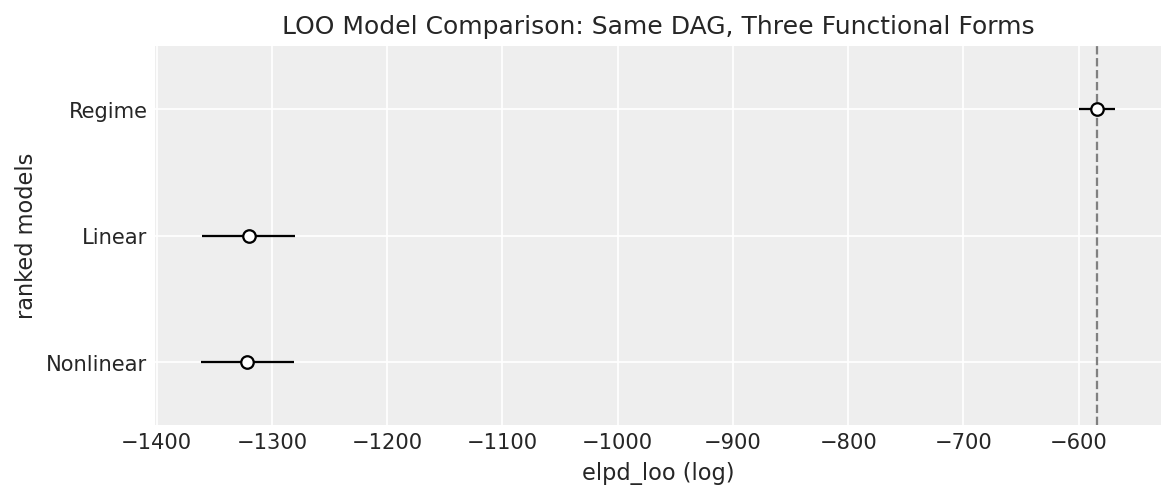
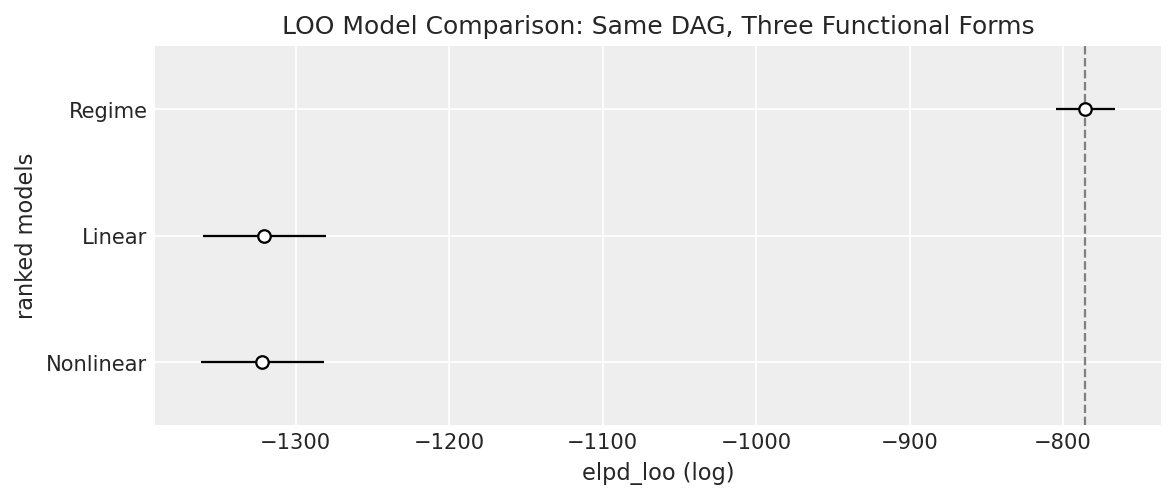
use latent variable

diff --git a/run_demo_dag1.py b/run_demo_dag1.py
@@ -8,6 +8,7 @@ warnings.filterwarnings("ignore", category=RuntimeWarning)
 import numpy as np
 import pandas as pd
 import pymc as pm
+import pytensor.tensor as pt
 import arviz as az
 import matplotlib
 matplotlib.use("Agg")
@@ -86,7 +87,6 @@ def main():
     ecf_vals = df["ECF"].values
     req_vals = df["R_eq"].values
     tight = (mp_vals > 0).astype(float)
-    stress = df["stress"].values
     tightening_bool = mp_vals > 0
 
     # ── 2. Figure 1: Exploratory scatter plots ────────────────────────────
@@ -147,10 +147,19 @@ def main():
         c1 = pm.Normal("c1", mu=0, sigma=2)
         c2 = pm.Normal("c2", mu=0, sigma=2)
         c3 = pm.Normal("c3", mu=0, sigma=2)
-        c_stress = pm.Normal("c_stress", mu=0, sigma=2)
+        c_stress = pm.Normal("c_stress", mu=0, sigma=5)
+        p_stress = pm.Beta("p_stress", alpha=2, beta=10)
         sigma_req = pm.HalfNormal("sigma_req", sigma=2)
-        req_mu = c1 * dr_vals + c2 * ecf_vals + c3 * rs_vals + c_stress * stress * np.abs(mp_vals)
-        pm.Normal("R_eq", mu=req_mu, sigma=sigma_req, observed=req_vals)
+        base_mu = c1 * dr_vals + c2 * ecf_vals + c3 * rs_vals
+        pm.Mixture(
+            "R_eq",
+            w=pt.stack([1 - p_stress, p_stress]),
+            comp_dists=[
+                pm.Normal.dist(mu=base_mu, sigma=sigma_req),
+                pm.Normal.dist(mu=base_mu + c_stress * np.abs(mp_vals), sigma=sigma_req),
+            ],
+            observed=req_vals,
+        )
 
     # Model C: Nonlinear
     with pm.Model() as model_nonlinear:
@@ -285,12 +294,15 @@ def main():
         "a1_tight": 1.8, "a1_ease": 0.3, "a2": 0.6,
         "b1_tight": -0.2, "b1_ease": -1.0, "b2": 0.7,
         "c1": -0.6, "c2": 0.8, "c3": 0.5, "c_stress": -5.0,
+        "p_stress": 0.159,
     }
     param_names = list(true_params.keys())
     posterior = traces["Regime"].posterior
 
-    fig, axes = plt.subplots(2, 5, figsize=(16, 5.5))
+    fig, axes = plt.subplots(2, 6, figsize=(18, 5.5))
     axes = axes.flatten()
+    for ax in axes[len(param_names):]:
+        ax.set_visible(False)
     for i, pname in enumerate(param_names):
         samples = posterior[pname].values.flatten()
         axes[i].hist(samples, bins=50, density=True, alpha=0.7, color="#2ca02c", edgecolor="none")
